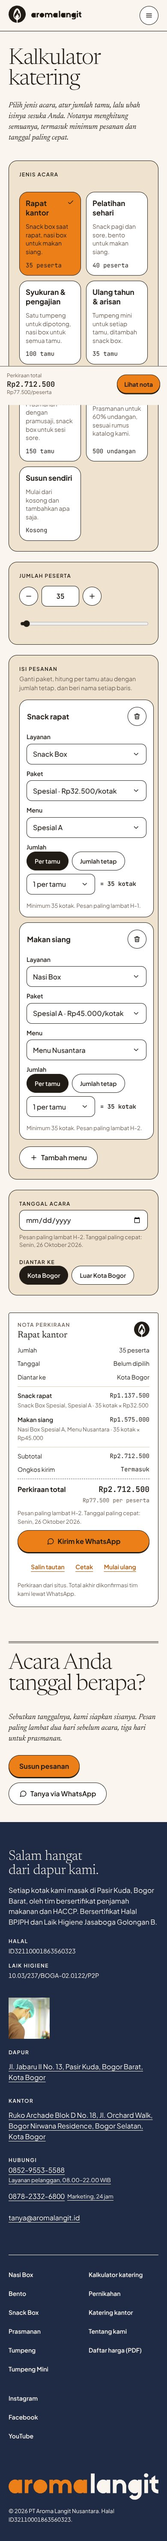
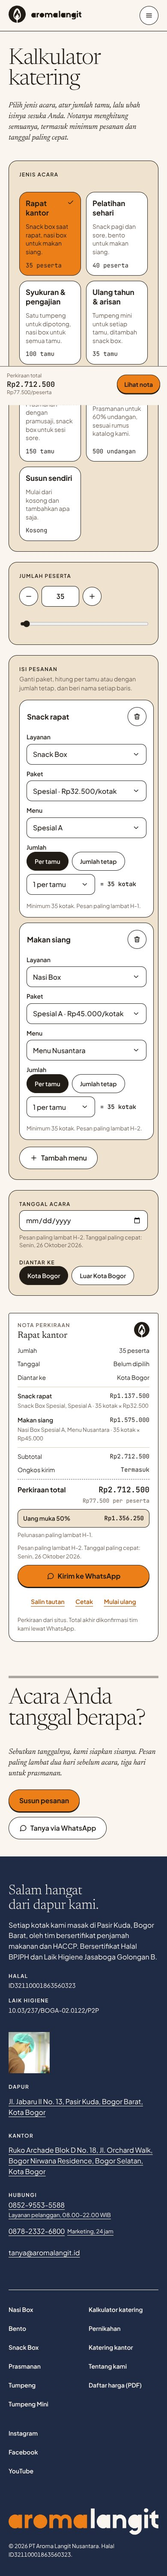
Show the DP and settlement on the Nota; derive lead-time copy from data
- Add depositRate (percent) and settlementDays to SiteSettings, the bundled
  data, the Sanity siteSettings schema and the seed. The loader falls back to
  the bundled values when Sanity's numbers are missing or out of range.
- New NotaDeposit component: the DP line in a kraft box and the settlement
  note, shown after the total on the home order label and the calculator
  nota. With an event date, the note names the due day.
- The WhatsApp messages carry the same DP and settlement line as the nota.
- The price-list footnote and the "Bayar uang muka" step are built from
  service lead times and the payment settings instead of hard-coded text.
- Unit and e2e coverage for the new helpers, loader fallback, component and
  both notas; staff guide and README updated; home and kalkulator
  screenshots regenerated.

Claude-Session: https://claude.ai/code/session_01YUy3Uw8dwEf7h8mrPhHQzD

diff --git a/src/lib/order.ts b/src/lib/order.ts
@@ -135,7 +135,51 @@ export const shippingLabel: Record<Area, string> = {
   'luar-bogor': 'Dihitung tim kami',
 };
 
-export function buildMessage(o: OrderDraft): string {
+/** Payment rules from site settings: the deposit as a percent of the total, and how many
+ *  days before the event the balance is due. */
+export interface PaymentTerms {
+  depositRate: number;
+  settlementDays: number;
+}
+
+export function depositAmount(total: number, depositRate: number): number {
+  return Math.round((total * depositRate) / 100);
+}
+
+/** 50 → "50%", 12.5 → "12,5%". */
+export function formatPercent(n: number): string {
+  return `${String(Math.round(n * 10) / 10).replace('.', ',')}%`;
+}
+
+/** "Pelunasan paling lambat H-1.", or with an event date, the day itself:
+ *  "Pelunasan paling lambat Jumat, 30 Oktober 2026 (H-1)." */
+export function settlementText(days: number, eventDate = ''): string {
+  if (days <= 0) return 'Pelunasan paling lambat di hari acara.';
+  const due = /^\d{4}-\d{2}-\d{2}$/.test(eventDate) ? formatDateLong(addDays(eventDate, -days)) : '';
+  return due ? `Pelunasan paling lambat ${due} (H-${days}).` : `Pelunasan paling lambat H-${days}.`;
+}
+
+/** The deposit and settlement as one line, for the WhatsApp messages. */
+export function paymentLine(total: number, t: PaymentTerms, eventDate = ''): string {
+  return `Uang muka ${formatPercent(t.depositRate)}: ${formatRupiah(depositAmount(total, t.depositRate))}. ${settlementText(t.settlementDays, eventDate)}`;
+}
+
+/**
+ * Lead times in one sentence: the most common one first, then the services that differ,
+ * in the order given. "Pesan paling lambat H-2. Snack box H-1, prasmanan H-3."
+ */
+export function leadTimeSummary(services: { title: string; leadDays: number }[]): string {
+  if (!services.length) return '';
+  const counts = new Map<number, number>();
+  for (const s of services) counts.set(s.leadDays, (counts.get(s.leadDays) ?? 0) + 1);
+  // Map keeps insertion order, so a tie goes to the lead time listed first.
+  const usual = [...counts].reduce((a, b) => (b[1] > a[1] ? b : a))[0];
+  const others = services.filter((s) => s.leadDays !== usual).map((s) => `${s.title.toLowerCase()} H-${s.leadDays}`);
+  const rest = others.join(', ');
+  return `Pesan paling lambat H-${usual}.${rest ? ` ${rest[0].toUpperCase()}${rest.slice(1)}.` : ''}`;
+}
+
+export function buildMessage(o: OrderDraft, terms?: PaymentTerms): string {
   const e = estimate(o.pkg, o.qty);
   const lines = [
     'Halo Aroma Langit, saya ingin memesan:',
@@ -146,6 +190,7 @@ export function buildMessage(o: OrderDraft): string {
     `• Diantar ke: ${areaLabel[o.area]}`,
     `• Perkiraan dari situs: ${formatRupiah(e.total)}${e.belowMinimum ? ` (termasuk biaya tambahan di bawah minimum ${formatRupiah(e.surcharge)})` : ''}`,
   ];
+  if (terms) lines.push(`• ${paymentLine(e.total, terms, o.date)}`);
   if (o.area === 'luar-bogor') lines.push('', 'Mohon info ongkos kirim ke lokasi saya.');
   lines.push('', 'Mohon konfirmasi ketersediaan dan total akhirnya. Terima kasih.');
   return lines.join('\n');

diff --git a/src/scripts/calculator.ts b/src/scripts/calculator.ts
@@ -3,13 +3,17 @@ import {
   buildPlanMessage, cleanLabel, computePlan, decodePlan, encodePlan, LIMITS, MULTIPLIERS, multiplierLabel, newItem,
   planFromPreset, quantityFor, type CatalogService, type Plan, type PlanItem, type PlanResult, type Preset,
 } from '../lib/calculator';
-import { areaLabel, shippingLabel, checkDate, earliestDate, formatDateLong, formatRupiah, parseAmount, type Area } from '../lib/order';
+import {
+  areaLabel, shippingLabel, checkDate, depositAmount, earliestDate, formatDateLong, formatRupiah, parseAmount, settlementText,
+  type Area, type PaymentTerms,
+} from '../lib/order';
 
 interface Data {
   catalog: CatalogService[];
   presets: Preset[];
   csPhone: string;
   marketingPhone: string;
+  terms: PaymentTerms;
 }
 
 const data: Data = JSON.parse(document.getElementById('calc-data')!.textContent || '{}');
@@ -46,6 +50,9 @@ const ui = {
   rTotal: $('[data-r-total]'),
   rPer: $('[data-r-per]'),
   rLead: $('[data-r-lead]'),
+  rDeposit: $('[data-r-deposit]'),
+  rDp: $('[data-r-dp]'),
+  rSettle: $('[data-r-settle]'),
   send: $<HTMLButtonElement>('[data-send]'),
   share: $<HTMLButtonElement>('[data-share]'),
   print: $<HTMLButtonElement>('[data-print]'),
@@ -214,7 +221,7 @@ function update(opts: { announce?: boolean; live?: boolean } = {}) {
   if (opts.announce !== false) {
     liveTimer = window.setTimeout(() => {
       ui.live.textContent = result.lines.length
-        ? `Perkiraan total ${formatRupiah(result.total)}, ${formatRupiah(result.perGuest)} per ${word}.`
+        ? `Perkiraan total ${formatRupiah(result.total)}, ${formatRupiah(result.perGuest)} per ${word}. Uang muka ${formatRupiah(depositAmount(result.total, data.terms.depositRate))}.`
         : 'Nota kosong.';
     }, 800);
   }
@@ -267,6 +274,9 @@ function renderReceipt(result: PlanResult, word: string, live = false) {
   ui.rLead.textContent = result.lines.length
     ? `Pesan paling lambat H-${result.leadDays}. Tanggal paling cepat: ${formatDateLong(result.earliest)}.`
     : '';
+  ui.rDeposit.hidden = result.lines.length === 0;
+  ui.rDp.textContent = formatRupiah(depositAmount(result.total, data.terms.depositRate));
+  ui.rSettle.textContent = settlementText(data.terms.settlementDays, plan.date);
   ui.send.disabled = result.lines.length === 0;
   animateTotal(result.total, live);
 }
@@ -540,7 +550,7 @@ ui.send.addEventListener('click', () => {
   const result = computePlan(plan, catalog);
   if (!result.lines.length) return;
   const preset = currentPreset();
-  const msg = buildPlanMessage(plan, result, preset === custom ? 'Acara khusus' : preset.title, guestWord(), shareUrl());
+  const msg = buildPlanMessage(plan, result, preset === custom ? 'Acara khusus' : preset.title, guestWord(), shareUrl(), data.terms);
   const phone = result.lines.some((l) => l.service.slug === 'pernikahan') ? data.marketingPhone : data.csPhone;
   const url = `https://wa.me/${phone}?text=${encodeURIComponent(msg)}`;
   const w = window.open(url, '_blank', 'noopener');

diff --git a/tests/unit/order.test.ts b/tests/unit/order.test.ts
@@ -1,6 +1,6 @@
 import { describe, expect, it } from 'vitest';
 import {
-  addDays, buildMessage, checkDate, clampQty, earliestDate, estimate, formatDateLong,
+  addDays, buildMessage, depositAmount, formatPercent, leadTimeSummary, settlementText, checkDate, clampQty, earliestDate, estimate, formatDateLong,
   formatRupiah, formatRupiahShort, todayInJakarta,
 } from '../../src/lib/order';
 import { services } from '../../src/data/services';
@@ -109,6 +109,43 @@ describe('buildMessage', () => {
     expect(msg).toContain('belum ditentukan');
     expect(msg).toContain('Rp145.000');
     expect(msg).toContain('ongkos kirim');
+  });
+});
+
+describe('payment terms', () => {
+  it('computes the deposit from the rate in site settings', () => {
+    expect(depositAmount(4_350_000, 50)).toBe(2_175_000);
+    expect(depositAmount(145_001, 50)).toBe(72_501);
+    expect(depositAmount(1_000_000, 30)).toBe(300_000);
+  });
+  it('formats the rate as a percent', () => {
+    expect(formatPercent(50)).toBe('50%');
+    expect(formatPercent(12.5)).toBe('12,5%');
+  });
+  it('writes the settlement rule, with the due day once the event date is known', () => {
+    expect(settlementText(1)).toBe('Pelunasan paling lambat H-1.');
+    expect(settlementText(1, '2026-11-07')).toBe('Pelunasan paling lambat Jumat, 6 November 2026 (H-1).');
+    expect(settlementText(3, 'kemarin')).toBe('Pelunasan paling lambat H-3.');
+    expect(settlementText(0, '2026-11-07')).toBe('Pelunasan paling lambat di hari acara.');
+  });
+  it('adds the deposit to the WhatsApp message when terms are given', () => {
+    const msg = buildMessage(
+      { serviceName: 'Nasi Box', leadDays: 2, pkg: nasiBoxStandar, qty: 150, date: '2026-11-07', area: 'kota-bogor' },
+      { depositRate: 50, settlementDays: 1 },
+    );
+    expect(msg).toContain('Uang muka 50%: Rp2.175.000. Pelunasan paling lambat Jumat, 6 November 2026 (H-1).');
+  });
+});
+
+describe('leadTimeSummary', () => {
+  it('leads with the usual lead time and lists the exceptions', () => {
+    expect(leadTimeSummary(services)).toBe('Pesan paling lambat H-2. Snack box H-1, prasmanan H-3.');
+  });
+  it('follows the data', () => {
+    expect(leadTimeSummary([{ title: 'Nasi Box', leadDays: 3 }, { title: 'Bento', leadDays: 3 }])).toBe('Pesan paling lambat H-3.');
+    expect(leadTimeSummary([{ title: 'Tumpeng Mini', leadDays: 1 }, { title: 'Bento', leadDays: 2 }, { title: 'Prasmanan', leadDays: 2 }]))
+      .toBe('Pesan paling lambat H-2. Tumpeng mini H-1.');
+    expect(leadTimeSummary([])).toBe('');
   });
 });
 

diff --git a/tests/e2e/calculator.spec.ts b/tests/e2e/calculator.spec.ts
@@ -18,6 +18,8 @@ test('starts from the first preset with a correct receipt', async ({ page }) => 
   // 35 × 32.500 + 35 × 45.000
   await expect(total(page)).toHaveText('Rp2.712.500');
   await expect(page.locator('[data-r-per]')).toHaveText('Rp77.500 per peserta');
+  await expect(page.locator('[data-r-dp]')).toHaveText('Rp1.356.250');
+  await expect(page.locator('[data-r-settle]')).toHaveText('Pelunasan paling lambat H-1.');
   expect(problems).toEqual([]);
 });
 
@@ -91,6 +93,7 @@ test('fully custom plans start empty and cannot be sent until they have a line',
   await expect(page.locator('[data-r-empty]')).toBeVisible();
   await expect(page.getByRole('button', { name: 'Kirim ke WhatsApp' })).toBeDisabled();
   await expect(total(page)).toHaveText('Rp0');
+  await expect(page.locator('[data-r-deposit]')).toBeHidden();
   await page.getByRole('button', { name: 'Tambah menu' }).click();
   await expect(rows(page)).toHaveCount(1);
   await expect(page.getByRole('button', { name: 'Kirim ke WhatsApp' })).toBeEnabled();
@@ -116,6 +119,7 @@ test('a shared link restores the exact plan', async ({ page, browser }) => {
   await expect(other.locator('[data-items] > li').nth(1).locator('[data-f="variant"]')).toHaveValue('Ayam Mentega');
   await expect(other.locator('[data-items] > li').nth(2).locator('[data-f="label"]')).toHaveValue('Snack penutupan');
   await expect(other.locator('[data-date]')).toHaveValue('2027-01-15');
+  await expect(other.locator('[data-r-settle]')).toHaveText('Pelunasan paling lambat Kamis, 14 Januari 2027 (H-1).');
   await expect(other.locator('[data-r-ship]')).toHaveText('Dihitung tim kami');
   await expect(other.locator('[data-r-total]')).toHaveText(want!);
   await other.close();

diff --git a/src/lib/calculator.ts b/src/lib/calculator.ts
@@ -1,6 +1,6 @@
 // Catering calculator: plans a whole event as several order lines.
 // Pure functions only, shared by the page script and the tests.
-import { estimate, formatDateLong, formatRupiah, areaLabel, earliestDate, checkDate, type Area, type DateCheck } from './order';
+import { estimate, formatDateLong, formatRupiah, areaLabel, earliestDate, checkDate, paymentLine, type Area, type DateCheck, type PaymentTerms } from './order';
 
 export interface CatalogPackage {
   id: string;
@@ -255,7 +255,7 @@ export function cleanLabel(v: unknown): string {
 
 const formatQty = (n: number) => n.toLocaleString('id-ID');
 
-export function buildPlanMessage(plan: Plan, result: PlanResult, eventName: string, guestWord: string, shareUrl?: string): string {
+export function buildPlanMessage(plan: Plan, result: PlanResult, eventName: string, guestWord: string, shareUrl?: string, terms?: PaymentTerms): string {
   const lines = [
     'Halo Aroma Langit, saya ingin memesan katering untuk acara berikut:',
     '',
@@ -271,6 +271,7 @@ export function buildPlanMessage(plan: Plan, result: PlanResult, eventName: stri
     if (l.surcharge > 0) lines.push(`   + biaya di bawah minimum ${l.pkg.minOrder} ${l.pkg.unit}: ${formatRupiah(l.surcharge)}`);
   });
   lines.push('', `Perkiraan total: ${formatRupiah(result.total)} (${formatRupiah(result.perGuest)} per ${guestWord})`);
+  if (terms) lines.push(paymentLine(result.total, terms, plan.date));
   if (plan.area === 'luar-bogor') lines.push('Mohon info ongkos kirim ke lokasi saya.');
   if (shareUrl) lines.push('', `Rincian: ${shareUrl}`);
   lines.push('', 'Mohon konfirmasi ketersediaan dan total akhirnya. Terima kasih.');

diff --git a/tests/unit/ui.test.ts b/tests/unit/ui.test.ts
@@ -12,6 +12,7 @@ import NavyBand from '../../src/components/ui/NavyBand.astro';
 import Nota from '../../src/components/ui/Nota.astro';
 import NotaLine from '../../src/components/ui/NotaLine.astro';
 import NotaTotal from '../../src/components/ui/NotaTotal.astro';
+import NotaDeposit from '../../src/components/ui/NotaDeposit.astro';
 import PriceRow from '../../src/components/ui/PriceRow.astro';
 import SectionHeading from '../../src/components/ui/SectionHeading.astro';
 import StickyOrderBar from '../../src/components/ui/StickyOrderBar.astro';
@@ -121,6 +122,14 @@ describe('ui composites', () => {
     expect(nota).toContain('<h2 id="nota" class="ui-nota__eyebrow">Nota perkiraan</h2>');
     expect(nota).toContain('<dl class="ui-nota__lines tab">');
     expect(nota).toContain('ui-nota__tear');
+  });
+
+  it('NotaDeposit shows the DP line and the settlement note after the total', async () => {
+    const dp = await c.renderToString(NotaDeposit, { props: { rate: 50, amount: 'Rp787.500', settlement: 'Pelunasan paling lambat H-1.' } });
+    expect(dp).toMatch(/<p class="ui-nota__dp"><span>Uang muka 50%<\/span><span>Rp787.500<\/span><\/p>/);
+    expect(dp).toContain('<p class="ui-nota__settle">Pelunasan paling lambat H-1.</p>');
+    const nota = await c.renderToString(Nota, { props: { id: 'n', title: 'Nota' }, slots: { total: '<p>TOTAL</p>', deposit: dp } });
+    expect(nota.indexOf('TOTAL')).toBeLessThan(nota.indexOf('Uang muka'));
   });
 
   it('SectionHeading renders the level, context and link', async () => {

diff --git a/studio/schemaTypes/index.ts b/studio/schemaTypes/index.ts
@@ -129,6 +129,16 @@ export const siteSettings = defineType({
       of: [defineArrayMember({ type: 'object', fields: [defineField({ name: 'name', type: 'string', title: 'Nama' }), defineField({ name: 'role', type: 'string', title: 'Jabatan' }), defineField({ name: 'bio', type: 'text', rows: 3, title: 'Profil' })] })],
     }),
     defineField({ name: 'sharedTerms', title: 'Syarat pemesanan umum', type: 'array', group: 'kontak', of: [defineArrayMember({ type: 'text', rows: 2 })] }),
+    defineField({
+      name: 'depositRate', title: 'Uang muka (%)', type: 'number', group: 'kontak',
+      description: 'Persentase dari total yang dibayar untuk mengunci pesanan, misalnya 50. Tampil di nota dan pesan WhatsApp.',
+      validation: (r) => r.required().min(1).max(100),
+    }),
+    defineField({
+      name: 'settlementDays', title: 'Pelunasan (hari sebelum acara)', type: 'number', group: 'kontak',
+      description: 'Misalnya 1 untuk pelunasan paling lambat H-1. Isi 0 bila pelunasan di hari acara.',
+      validation: (r) => r.required().integer().min(0).max(30),
+    }),
   ],
   preview: { prepare: () => ({ title: 'Pengaturan situs' }) },
 });

diff --git a/tests/unit/content.test.ts b/tests/unit/content.test.ts
@@ -51,6 +51,20 @@ describe('content loader', () => {
     const site = await getSite();
     expect(site.csPhone).toBe('6281111111111');
     expect(site.email).toBe('tanya@aromalangit.id');
+    expect(site.depositRate).toBe(50);
+    expect(site.settlementDays).toBe(1);
+  });
+
+  it('keeps the payment numbers from Sanity, and falls back when they are out of range', async () => {
+    vi.stubEnv('SANITY_PROJECT_ID', 'abc123');
+    fetchMock.mockImplementation(async (q: string) => (q.includes('siteSettings') ? { depositRate: 30, settlementDays: 2 } : null));
+    let { getSite } = await import('../../src/lib/content');
+    expect(await getSite()).toMatchObject({ depositRate: 30, settlementDays: 2 });
+
+    vi.resetModules();
+    fetchMock.mockImplementation(async (q: string) => (q.includes('siteSettings') ? { depositRate: 0, settlementDays: 1.5 } : null));
+    ({ getSite } = await import('../../src/lib/content'));
+    expect(await getSite()).toMatchObject({ depositRate: 50, settlementDays: 1 });
   });
 
   it('falls back entirely when Sanity returns nothing', async () => {

diff --git a/tests/e2e/order.spec.ts b/tests/e2e/order.spec.ts
@@ -12,11 +12,15 @@ test.describe('order label', () => {
     const qty = form.locator('#order-qty');
     await expect(qty).toHaveValue('75');
     await expect(form.locator('[data-sum-total]')).toHaveText('Rp2.175.000', { timeout: 3000 });
+    await expect(form.locator('.ui-nota__dp')).toContainText('Uang muka 50%');
+    await expect(form.locator('[data-sum-dp]')).toHaveText('Rp1.087.500');
+    await expect(form.locator('[data-sum-settle]')).toHaveText('Pelunasan paling lambat H-1.');
 
     await qty.fill('50');
     await expect(form.locator('[data-sum-extra-row]')).toBeVisible();
     await expect(form.locator('[data-sum-extra]')).toHaveText('Rp145.000');
     await expect(form.locator('[data-sum-total]')).toHaveText('Rp1.595.000', { timeout: 3000 });
+    await expect(form.locator('[data-sum-dp]')).toHaveText('Rp797.500');
     await expect(form.locator('[data-order-qty-help]')).toContainText('biaya tambahan');
 
     await form.getByRole('radio', { name: 'Luar Kota Bogor' }).check();

diff --git a/src/lib/content.ts b/src/lib/content.ts
@@ -102,7 +102,13 @@ export function getSite(): Promise<SiteSettings> {
     const row = await c.fetch<Partial<SiteSettings> | null>(siteQuery);
     if (!row) return localSite;
     const clean = Object.fromEntries(Object.entries(row).filter(([k, v]) => !k.startsWith('_') && v !== null && v !== undefined));
-    return { ...localSite, ...clean } as SiteSettings;
+    const merged = { ...localSite, ...clean } as SiteSettings;
+    // The payment numbers drive the nota maths, so anything out of range falls back.
+    const rate = Number(merged.depositRate);
+    const days = Number(merged.settlementDays);
+    merged.depositRate = rate > 0 && rate <= 100 ? rate : localSite.depositRate;
+    merged.settlementDays = Number.isInteger(days) && days >= 0 && days <= 30 ? days : localSite.settlementDays;
+    return merged;
   })();
   return siteCache;
 }

diff --git a/tests/unit/calculator.test.ts b/tests/unit/calculator.test.ts
@@ -136,5 +136,8 @@ describe('buildPlanMessage', () => {
     expect(msg).toContain('2. Makan siang: Bento Spesial (Ayam Bakar Padang), 40 bento = Rp1.500.000');
     expect(msg).toContain(`Perkiraan total: Rp4.100.000`);
     expect(msg).toContain('Rincian: https://aromalangit.id/kalkulator/#n=abc');
+    expect(msg).not.toContain('Uang muka');
+    const withTerms = buildPlanMessage(plan, r, 'Pelatihan sehari', 'peserta', undefined, { depositRate: 50, settlementDays: 1 });
+    expect(withTerms).toContain('Uang muka 50%: Rp2.050.000. Pelunasan paling lambat Jumat, 6 November 2026 (H-1).');
   });
 });

diff --git a/src/styles/ui.css b/src/styles/ui.css
@@ -558,6 +558,26 @@ select.ui-input {
 }
 .ui-nota__dp span:last-child {
   font-family: var(--font-mono);
+  font-variant-numeric: tabular-nums;
+  white-space: nowrap;
+}
+.ui-nota__deposit {
+  display: flex;
+  flex-direction: column;
+  gap: var(--spacing-1);
+}
+.ui-nota__deposit[hidden] {
+  display: none;
+}
+.ui-nota__dp {
+  gap: 12px;
+  margin: 0;
+}
+.ui-nota__settle {
+  margin: 0;
+  font-size: 13px;
+  line-height: 1.4;
+  color: var(--color-ink-muted);
 }
 
 /* ---------- StickyOrderBar (order, phones only) ---------- */
